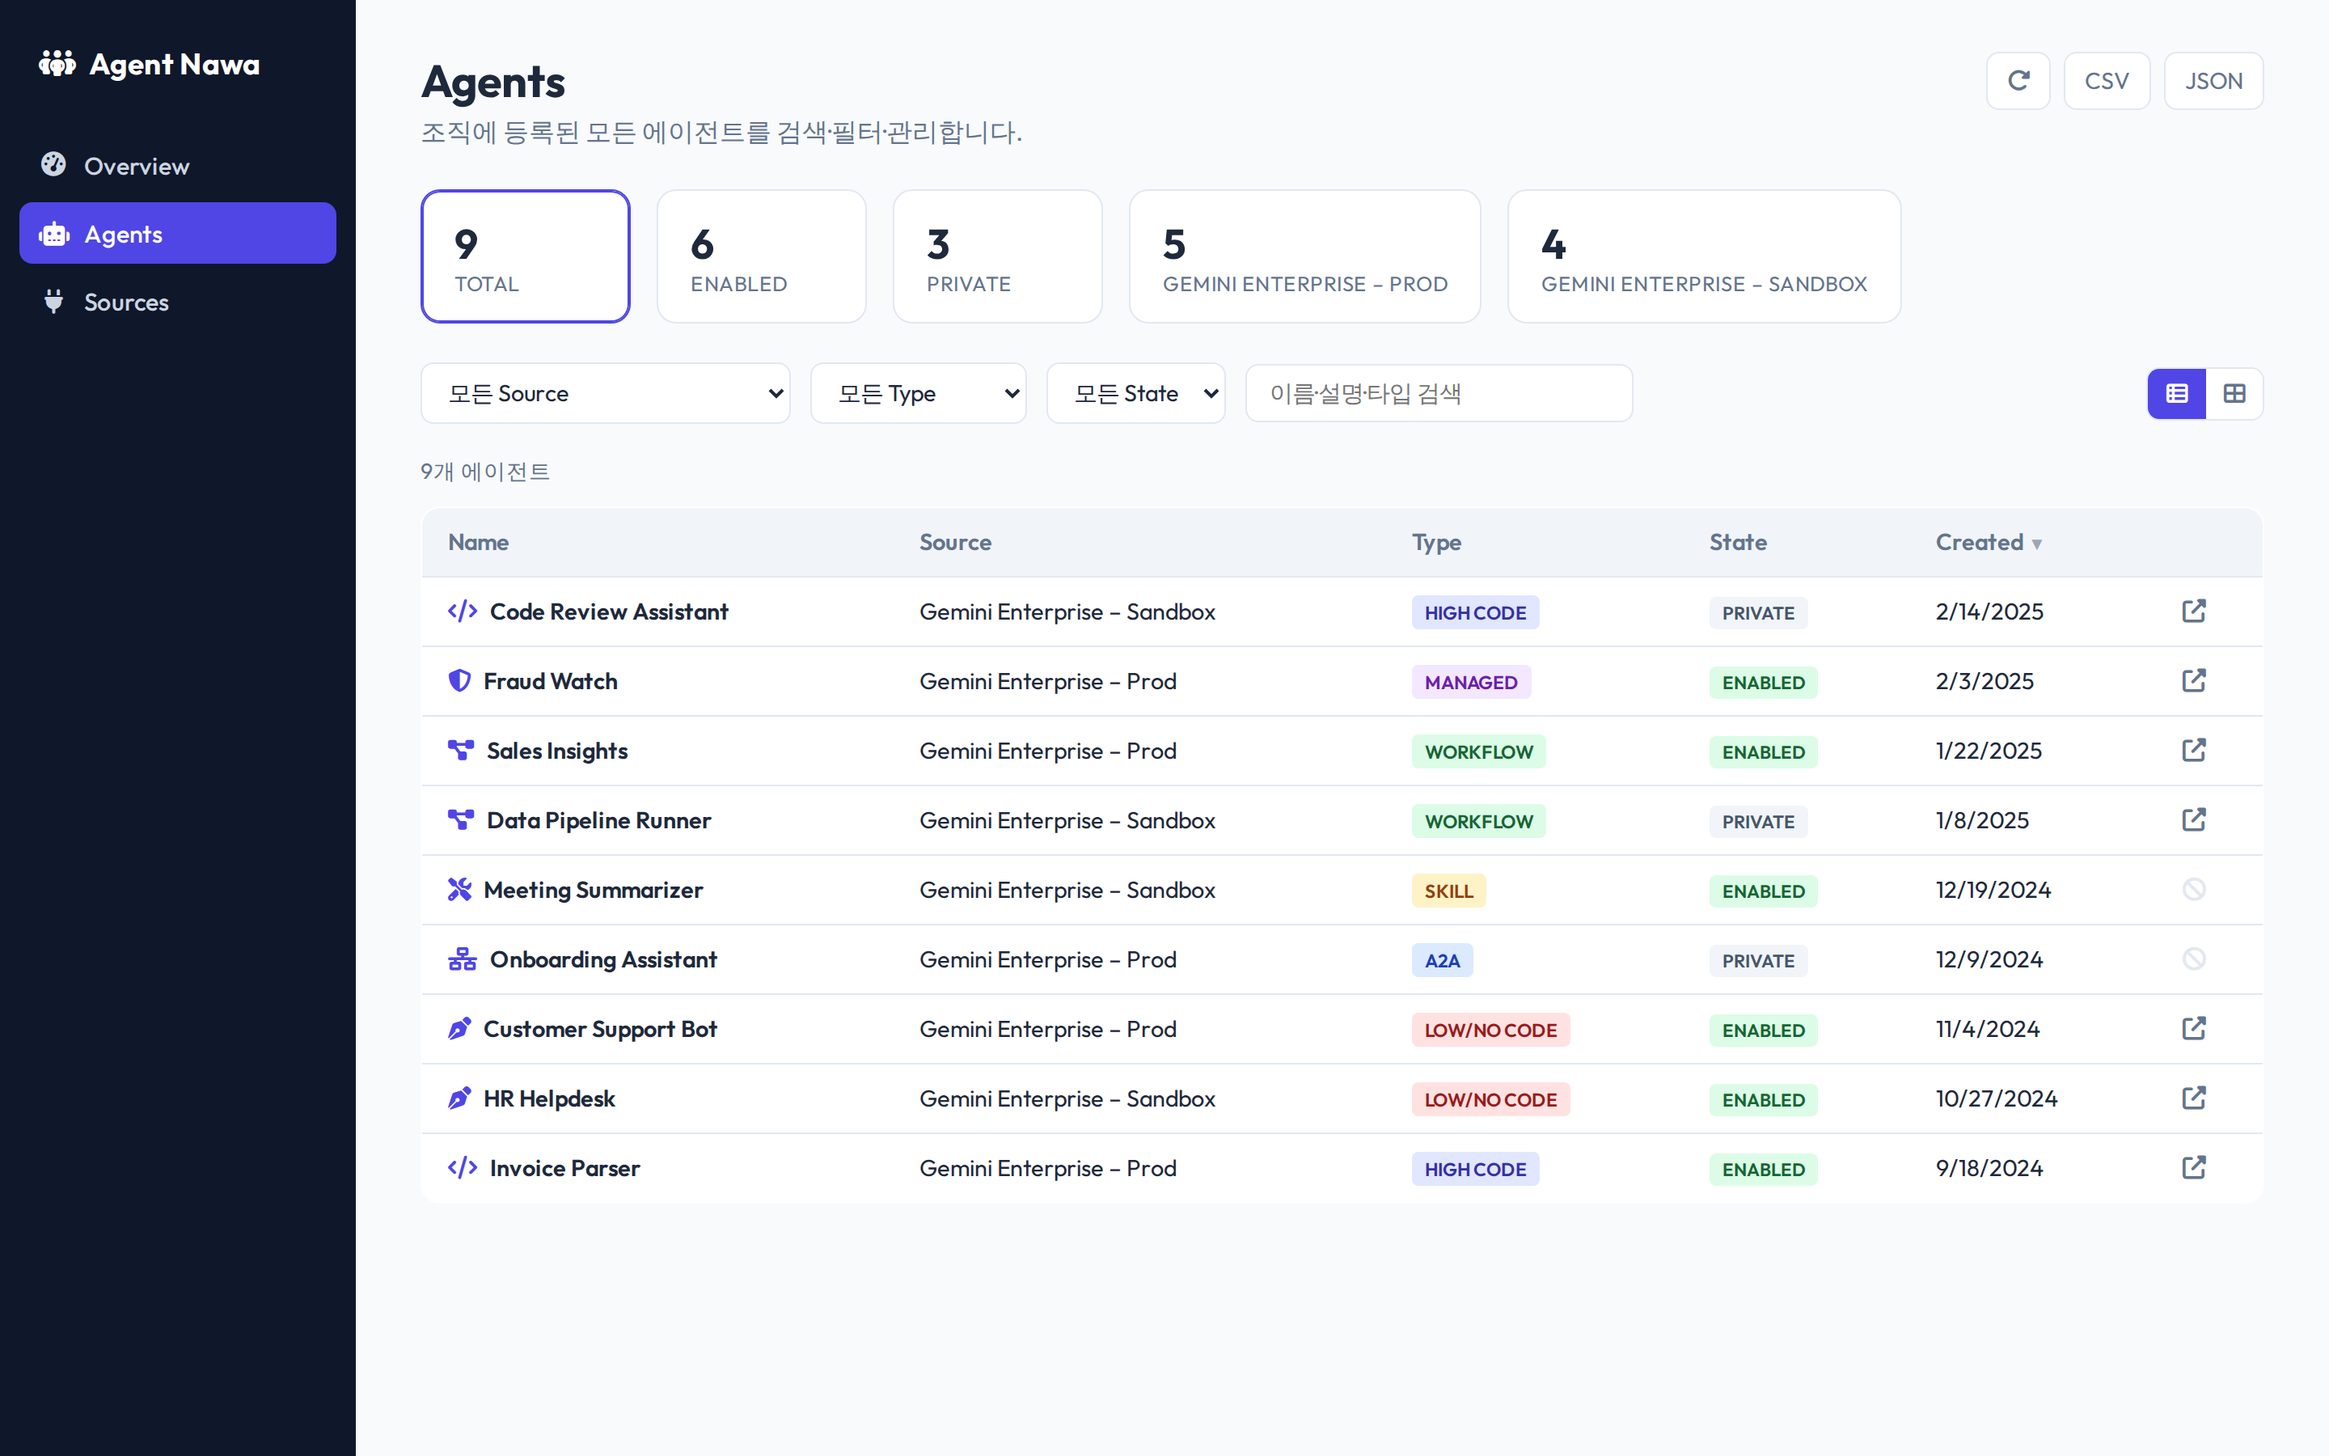
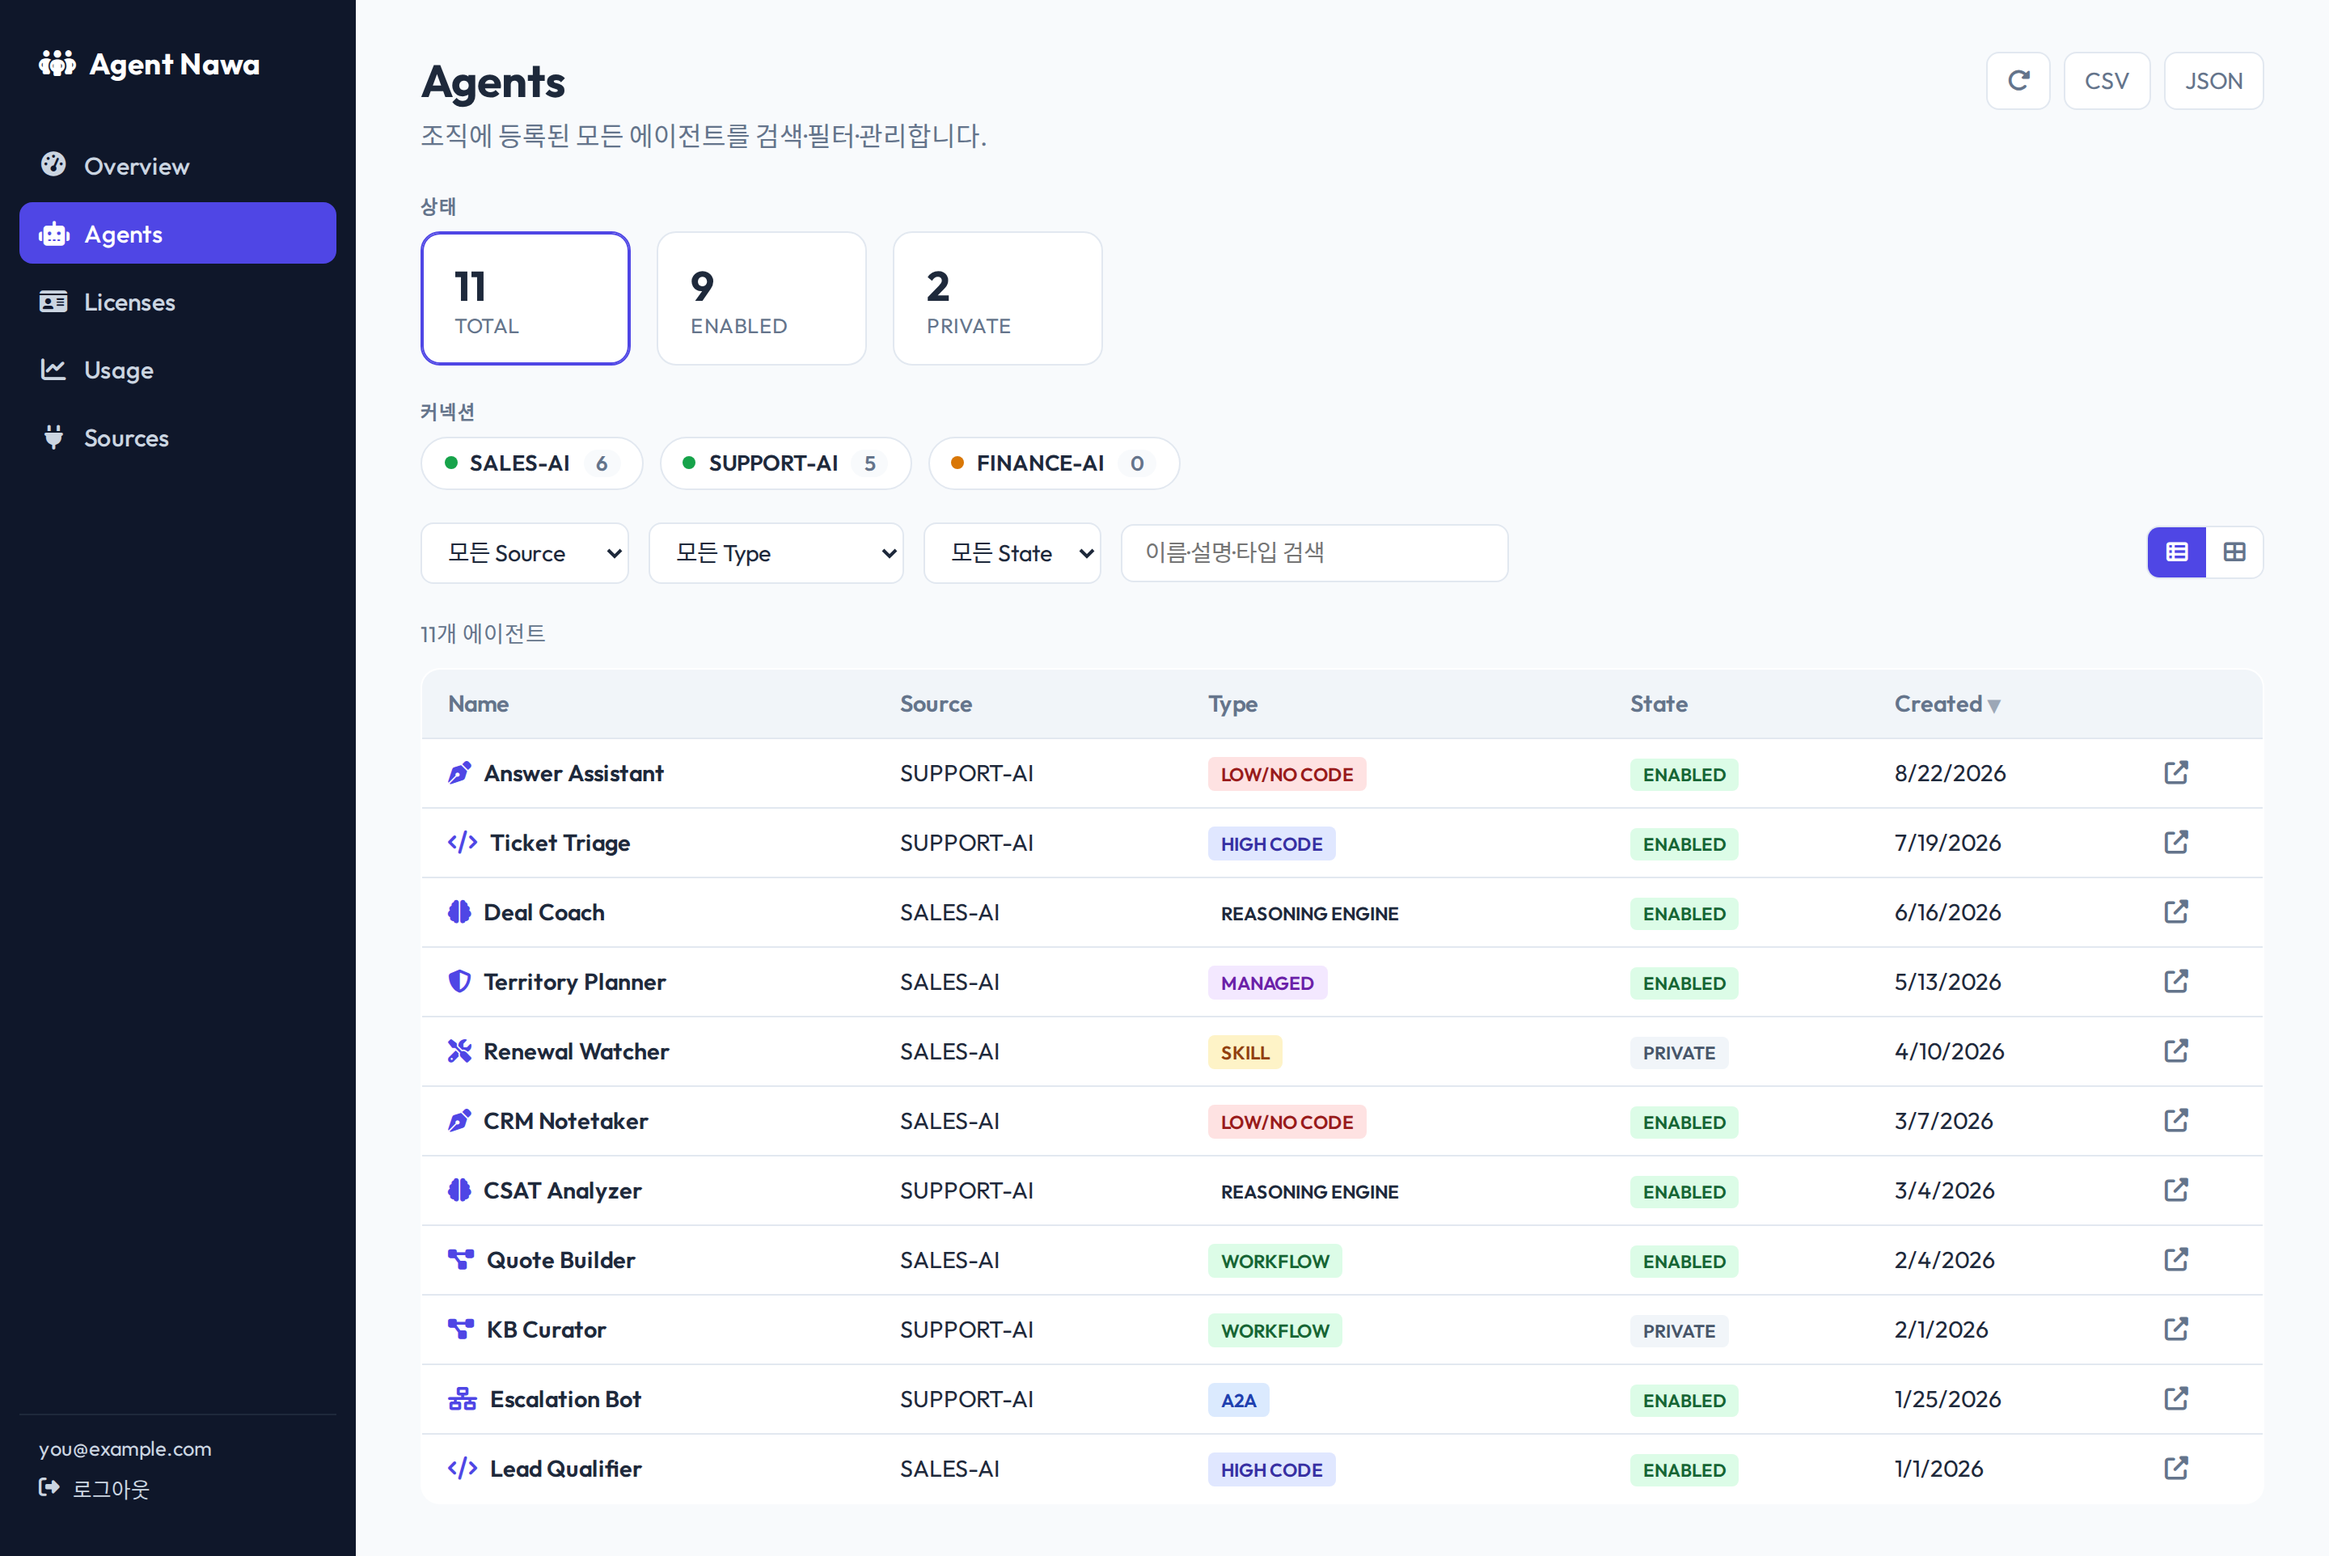
Document Overview/Licenses/Usage and refresh screenshots
Update README for the new screens (Overview landing, Licenses, Usage), Google
sign-in env vars, VPC-SC onboarding guide, and Vertex AI Agent Engine as a
second agent source. Regenerate screenshots (synthetic data) and add
licenses/usage/usage-setup/vpc-sc-guide captures.

diff --git a/README.md b/README.md
@@ -2,7 +2,7 @@
 
 Agent Nawa (에이전트 나와) is one place to find and open the AI agents your organization has registered. Different teams build agents on different platforms, and there is usually no single page that lists all of them. Agent Nawa reads those lists through a provider layer and shows them together, so someone looking for an agent does not have to know which platform it was built on.
 
-Today it reads agents from Google Gemini Enterprise (Discovery Engine). The provider layer is where the extensibility lives: each platform is one small adapter that knows its own API, authentication, and links. Adding Microsoft Copilot Studio, Azure AI Foundry, or an in-house platform means writing another adapter, not changing the rest of the app.
+Today it reads agents from Google Gemini Enterprise (Discovery Engine) and Vertex AI Agent Engine, and it goes beyond the list: an **Overview** landing page summarizes your fleet, a **Licenses** page shows Gemini Enterprise seat allocation and utilization, and a **Usage** page reports Antigravity inference telemetry. The provider layer is where the extensibility lives: each platform is one small adapter that knows its own API, authentication, and links. Adding Microsoft Copilot Studio, Azure AI Foundry, or an in-house platform means writing another adapter, not changing the rest of the app.
 
 <img src="docs/overview.png" alt="Agent Nawa — Overview" width="900">
 
@@ -14,8 +14,12 @@ Today it reads agents from Google Gemini Enterprise (Discovery Engine). The prov
     <td width="50%"><img src="docs/agents-cards.png" alt="Agents — card view"><br><sub><b>Card view</b> — the same list as a card grid, one card per agent with its type and state.</sub></td>
   </tr>
   <tr>
+    <td width="50%"><img src="docs/licenses.png" alt="Licenses"><br><sub><b>Licenses</b> — Gemini Enterprise seat allocation per project: assigned, available, and utilization, with a row-click flyout for the full license record.</sub></td>
+    <td width="50%"><img src="docs/usage.png" alt="Usage — Antigravity telemetry"><br><sub><b>Usage</b> — Antigravity inference telemetry: inferences, tokens, active users, a daily trend, a per-project breakdown, and top users.</sub></td>
+  </tr>
+  <tr>
     <td width="50%"><img src="docs/agent-detail.png" alt="Agent detail"><br><sub><b>Detail</b> — the full record for one agent, including any extra provider fields, with a link out to open it in its own platform.</sub></td>
-    <td width="50%"><img src="docs/sources.png" alt="Sources — connection manager"><br><sub><b>Sources</b> — add, edit, delete, and test Gemini Enterprise connections; the status table shows the last fetch per source.</sub></td>
+    <td width="50%"><img src="docs/sources.png" alt="Sources — connection manager"><br><sub><b>Sources</b> — add, edit, delete, and test connections; the status table shows the last fetch per source, with a health dot per connection.</sub></td>
   </tr>
 </table>
 
@@ -23,9 +27,9 @@ Today it reads agents from Google Gemini Enterprise (Discovery Engine). The prov
 
 ## How it works
 
-The backend is FastAPI. Each provider is a class that talks to one platform and returns agents in a shared shape: a name, a description, a type, a state, an icon, and a link to open the agent. `GET /api/agents` calls every registered provider, merges the results, and sorts them by creation time. If one provider throws, the others still return, and the response carries a per-provider status so the page can show which one failed instead of erroring out entirely.
+The backend is FastAPI. Each provider is a class that talks to one platform and returns agents in a shared shape: a name, a description, a type, a state, an icon, and a link to open the agent. `GET /api/agents` calls every registered provider, merges the results, and sorts them by creation time. If one provider throws, the others still return, and the response carries a per-provider status so the page can show which one failed instead of erroring out entirely. A source that fails behind VPC Service Controls is detected specifically and shown with an in-app onboarding guide (see below) rather than a raw error.
 
-The frontend is plain HTML and JavaScript. It loads `/api/agents`, renders one card per agent, and filters on the client as you type in the search box, matching name, description, or type. Each card links out to open the agent in its own platform.
+The frontend is plain HTML and JavaScript, with no build step. It opens on the **Overview**, which rolls up agent counts, license utilization, and usage totals, and from there you drill into Agents, Licenses, or Usage. The Agents list filters on the client as you type, matching name, description, or type, and each card links out to open the agent in its own platform. The page refreshes in the background so the numbers stay current.
 
 Agents in every state show up, each with a badge for its state (ENABLED, PRIVATE, and so on), so nothing is hidden. The Gemini adapter maps each one to a readable type: High Code, Low/No Code, A2A, Workflow, Skill, or Managed.
 
@@ -45,9 +49,21 @@ Agents in every state show up, each with a badge for its state (ENABLED, PRIVATE
    ```
 4. Open http://localhost:8000.
 
+## Signing in
+
+Agent Nawa can gate every request behind Google sign-in (Google Identity Services). It is off by default — with no `OAUTH_CLIENT_ID` set the app is fully open, which is what you want for local development. Set `OAUTH_CLIENT_ID` to a Google OAuth client ID and the app then requires a signed-in Google account for every page and API call; set `ALLOWED_DOMAINS` to restrict which email domains may enter.
+
+| Variable | Required | Purpose |
+|---|---|---|
+| `OAUTH_CLIENT_ID` | no | Google OAuth client ID. Unset ⇒ login is off (open). |
+| `ALLOWED_DOMAINS` | no | Comma-separated allowlist of email domains, e.g. `example.com`. |
+| `SESSION_SECRET` | no | Signs the session cookie. Unset ⇒ a random key, so sessions reset on restart. |
+| `BASE_URL` | no | Public base URL, used to build the sign-in redirect behind a proxy (e.g. Cloud Run). |
+| `HTTPS_ONLY` | no | `true` to mark the session cookie secure. |
+
 ## Configuration
 
-You manage connections from the UI. Each connection is one Gemini Enterprise source: a project ID, a Gemini Enterprise app ID, an optional client ID (`cid`, used to build each agent's open link), and an optional label. Add, remove, and test connections from the page; the whole list is persisted as one JSON document.
+You manage connections from the UI. Each connection points at one agent source — a Gemini Enterprise app or a Vertex AI Agent Engine. A Gemini connection is a project ID, a Gemini Enterprise app ID, an optional client ID (`cid`, used to build each agent's open link), and an optional label. Add, remove, and test connections from the page; the whole list is persisted as one JSON document.
 
 Where that document lives depends on the environment. Locally it is a file, `config.json` by default (override with `CONFIG_PATH`). On Cloud Run set `CONFIG_BUCKET` to a GCS bucket name and the list is stored there as a single blob, `connections.json` by default (override with `CONFIG_OBJECT`).
 
@@ -57,7 +73,7 @@ If no connection is configured, the app still runs and returns an empty list, so
 
 ## Usage telemetry (Antigravity)
 
-The **사용량** tab shows Antigravity inference usage — inferences, tokens, active users, a daily trend chart, per-project breakdown, and top users — for the projects you have connected. It reads a central BigQuery table populated by a Cloud Logging sink (`businessaicode.googleapis.com/inference_response`), scoped to your connected Gemini project IDs. Aggregation happens server-side; the browser only ever receives compact totals, never raw rows.
+The **Usage** tab shows Antigravity inference usage — inferences, tokens, active users, a daily trend chart, a per-project breakdown, and top users — for the projects you have connected. It reads a central BigQuery table populated by a Cloud Logging sink (`businessaicode.googleapis.com/inference_response`), scoped to your connected Gemini project IDs. Aggregation happens server-side; the browser only ever receives compact totals, never raw rows.
 
 It is off until you point it at the central dataset with these env vars:
 
@@ -67,7 +83,17 @@ It is off until you point it at the central dataset with these env vars:
 | `ANTIGRAVITY_BQ_DATASET` | no | `antigravity_monitoring` | Dataset holding the `businessaicode_googleapis_com_inference_response` table. |
 | `ANTIGRAVITY_BQ_LOCATION` | no | client default | BigQuery location of the dataset (e.g. `asia-northeast3`). |
 
-Unset, the tab loads and explains that it is not configured — it never errors. The log sink itself is a one-time, org-admin step (it touches folder/org-level logging): see [`terraform/setup/setup_antigravity_sink.sh`](terraform/setup/setup_antigravity_sink.sh). For Cloud Run, `terraform` wires the env and IAM when you set `enable_antigravity=true` (see [`terraform/README.md`](terraform/README.md)).
+Unset, the tab loads and explains that it is not configured — it never errors, and it shows the exact `gcloud` command an admin needs to run:
+
+<img src="docs/usage-setup.png" alt="Usage — not-configured guide" width="700">
+
+The log sink itself is a one-time, org-admin step (it touches folder/org-level logging): see [`terraform/setup/setup_antigravity_sink.sh`](terraform/setup/setup_antigravity_sink.sh). For Cloud Run, `terraform` wires the env and IAM when you set `enable_antigravity=true` (see [`terraform/README.md`](terraform/README.md)).
+
+## When a source is blocked by VPC Service Controls
+
+If a source sits behind VPC Service Controls, the fetch fails with a specific perimeter-denial error. Agent Nawa detects that case and, instead of a raw error, shows an in-app onboarding guide with the IAM bindings and ingress-policy YAML an administrator needs to let the service account through the perimeter — so the page stays self-service for the people who can actually fix it.
+
+<img src="docs/vpc-sc-guide.png" alt="VPC Service Controls onboarding guide" width="700">
 
 ## Adding a provider
 
